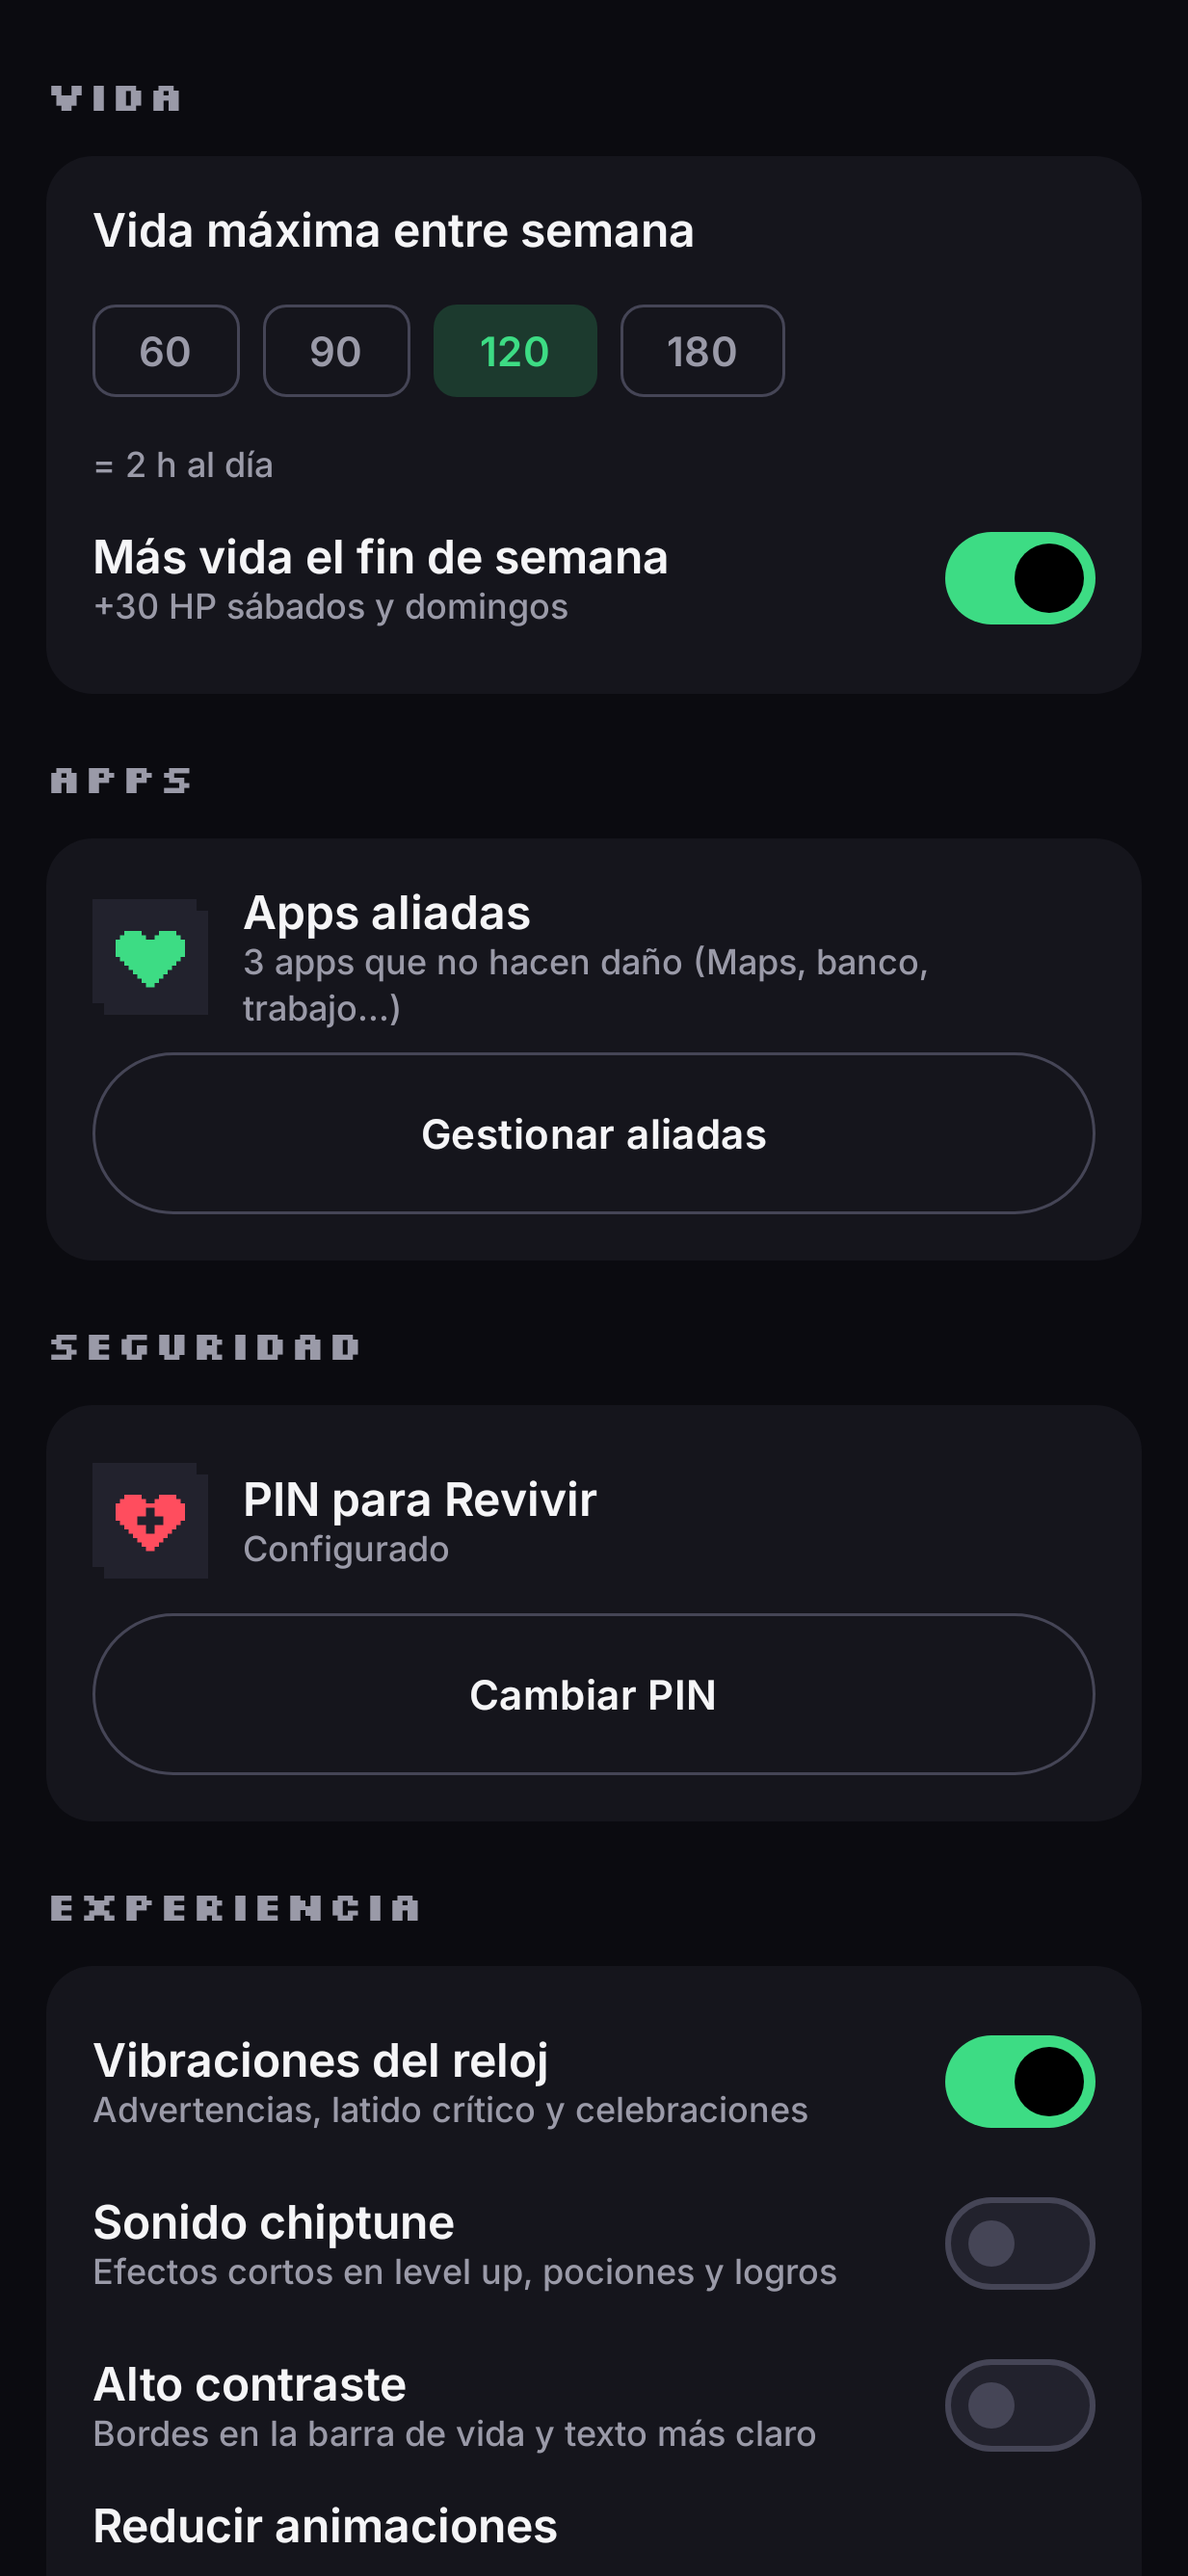
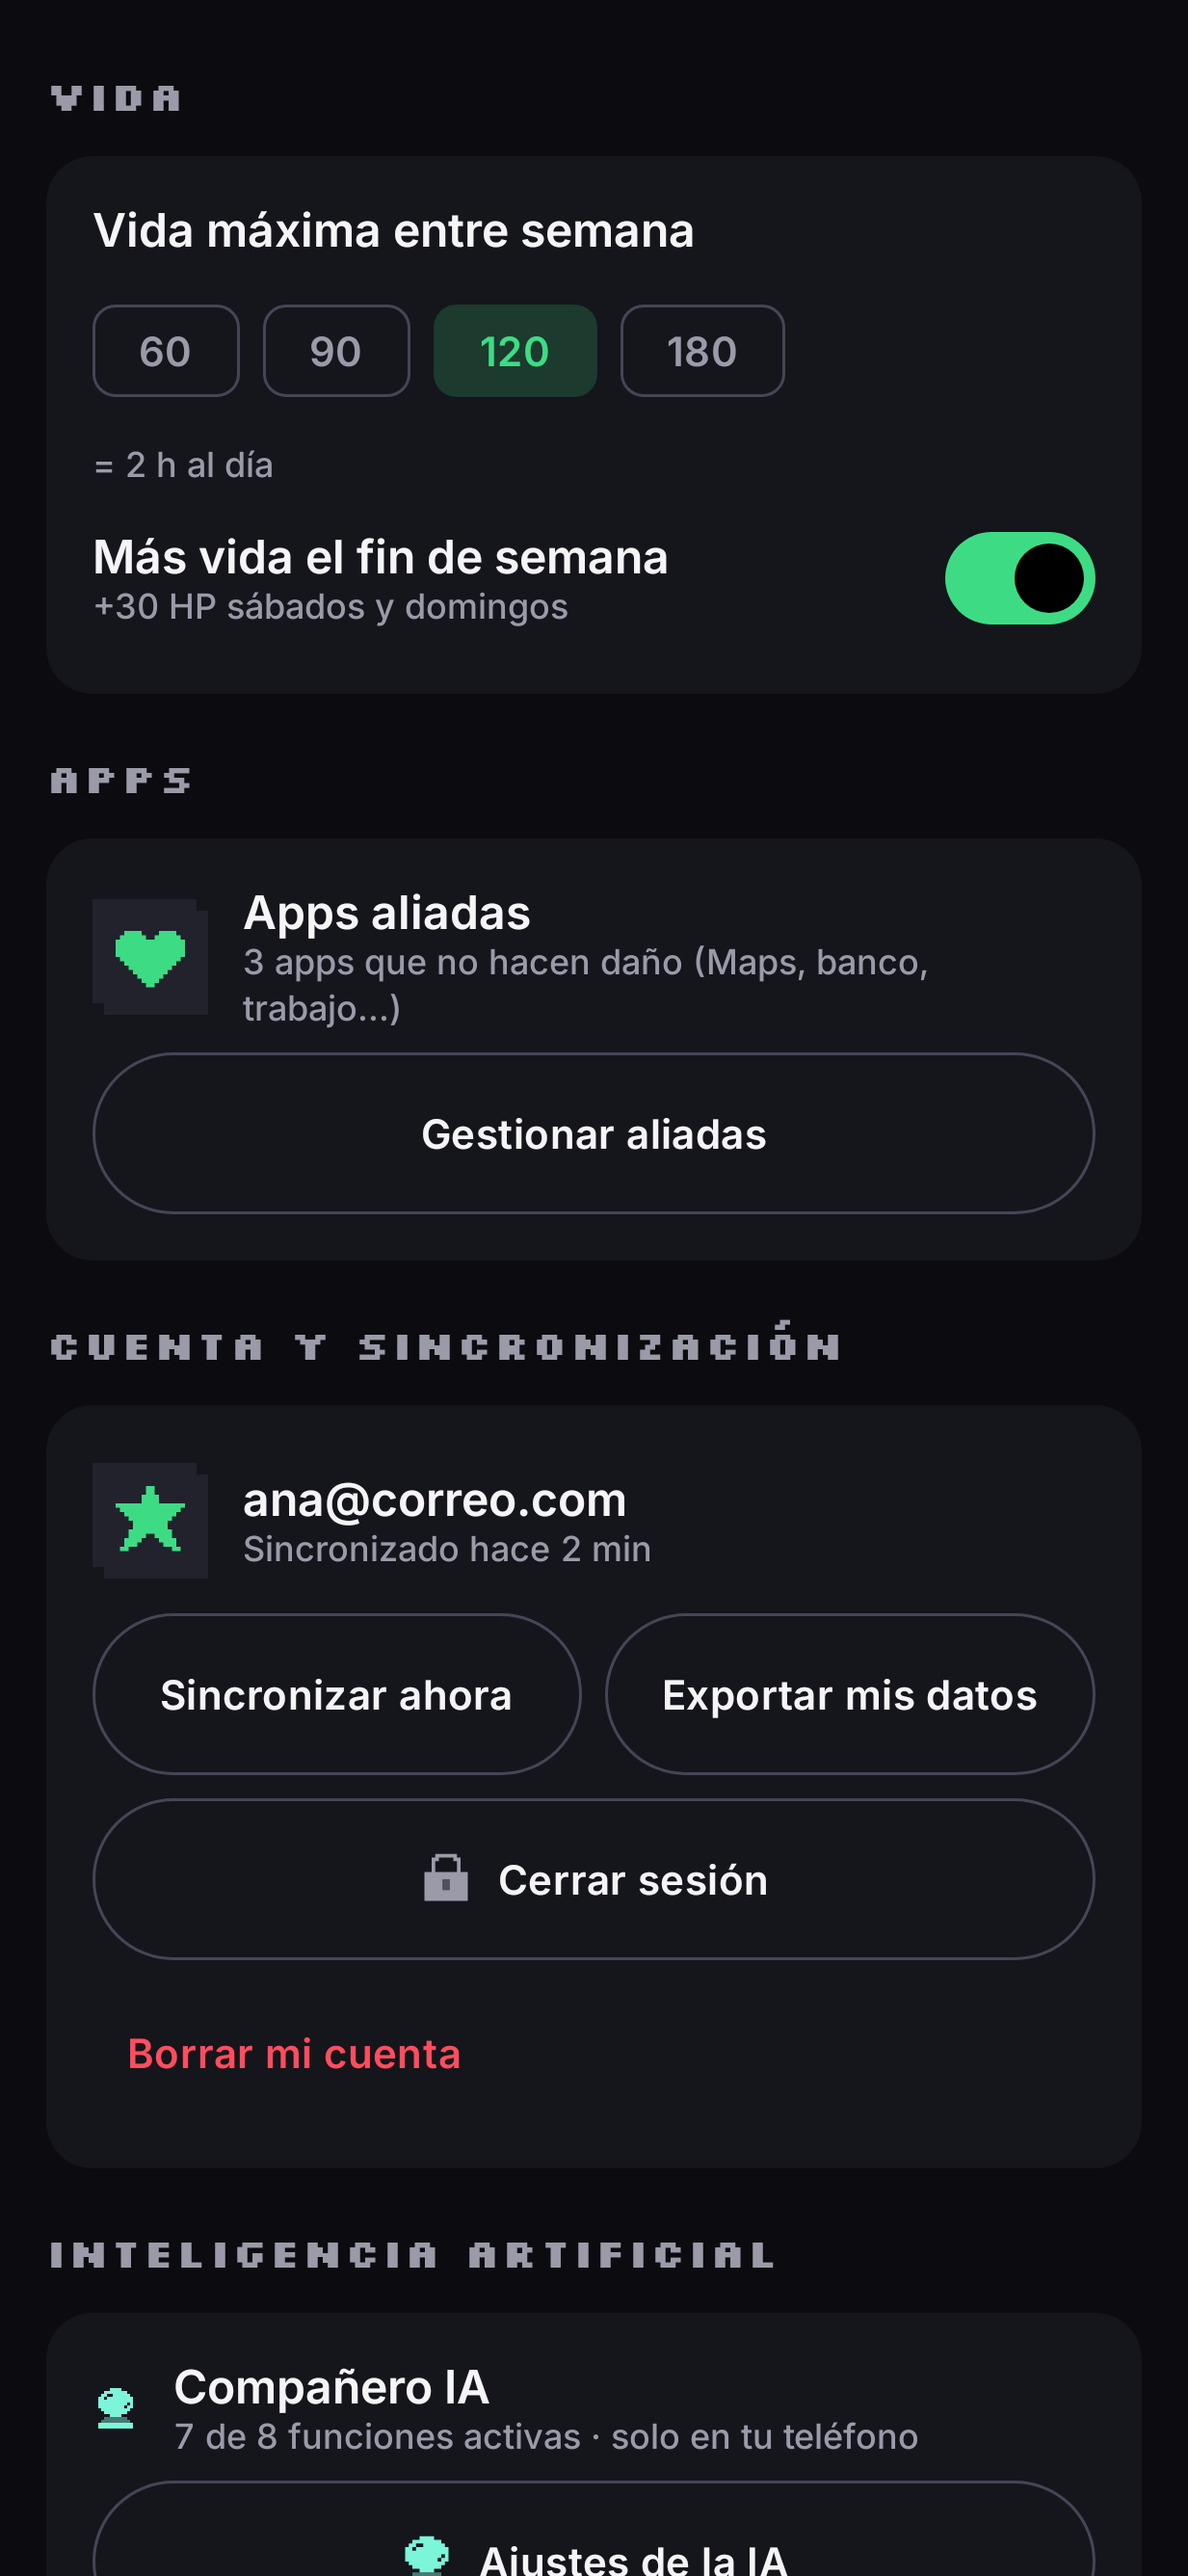
Pasada final: README actualizado, capturas regeneradas y plan cerrado

diff --git a/mobile/src/test/java/com/desconecta/hp/mobile/PhoneScreenshots.kt b/mobile/src/test/java/com/desconecta/hp/mobile/PhoneScreenshots.kt
@@ -103,7 +103,11 @@ class PhoneScreenshots {
     @Test fun historial_vacio() = shot("14_historial_vacio") { HistoryScreen(emptyList(), 0) }
     @Test fun avatar() = shot("15_avatar") { AvatarScreen(game.player, {}, {}) }
     @Test fun ajustes() = shot("16_configuracion") {
-        SettingsScreen(game, PhonePrefs(true, 120, 30, true), allGranted, { _, _ -> }, {}, {}, {}, {}, {})
+        SettingsScreen(
+            game, PhonePrefs(true, 120, 30, true), allGranted, { _, _ -> }, {}, {}, {}, {}, {},
+            cloudSection = { AccountSection(AuthState.SignedIn("u", "ana@correo.com", true), SyncStatus(lastSyncAt = now - 120_000), 0, now, {}, {}, {}, {}, {}, {}) },
+            aiSection = { com.desconecta.hp.mobile.ui.ai.AiSettingsSummary(com.desconecta.hp.shared.ai.model.AiSettings()) {} },
+        )
     }
     @Test fun catalogo() = shot("17_sistema_de_diseno") { DesignSystemCatalog() }
 

diff --git a/README.md b/README.md
@@ -2,33 +2,76 @@
 
 Control de tiempo en pantalla con estética de videojuego, para **Android + Wear OS**.
 Tu tiempo diario es una barra de vida (1 HP = 1 minuto); las apps más adictivas son monstruos
-con su propio límite; el reloj es el mando.
+con su propio límite; el reloj es el mando. Un compañero de IA da pistas, nunca decide por ti.
 
-| Reloj | Teléfono |
-|---|---|
-| <img src="docs/screenshots/wear/01_hud_saludable.png" width="220"> | <img src="docs/screenshots/phone/05_panel_principal.png" width="220"> |
-| <img src="docs/screenshots/wear/08_game_over.png" width="220"> | <img src="docs/screenshots/phone/07_bloqueo_app.png" width="220"> |
+| Reloj | Teléfono | IA |
+|---|---|---|
+| <img src="docs/screenshots/wear/01_hud_saludable.png" width="200"> | <img src="docs/screenshots/phone/05_panel_principal.png" width="200"> | <img src="docs/screenshots/phone/30_ia_sugerencia_limite.png" width="200"> |
+| <img src="docs/screenshots/wear/27_hud_ia_coach.png" width="200"> | <img src="docs/screenshots/phone/19_cuenta_consentimiento.png" width="200"> | <img src="docs/screenshots/phone/26_ia_ajustes_aprendiendo.png" width="200"> |
+
+## Qué incluye
+
+- **Juego**: vida diaria, monstruos con límite, bloqueo de apps, pociones/escudos/revivir, logros, rachas,
+  historial, avatar, jefe semanal, modo estudio. Funciona sin conexión.
+- **Reloj (Wear OS)**: HUD con la barra de vida, monstruos, inventario, alertas, Tile y complicaciones.
+  No habla con internet: todo pasa por el teléfono (Wearable Data Layer).
+- **Nube (Supabase)**: cuenta con correo o Google, sincronización con cola y reintentos, anti-trampas en
+  el servidor (XP, inventario y cierre del día los calcula la base de datos), exportar y borrar la cuenta.
+  Sin cuenta, todo se queda en el teléfono ("Solo en este dispositivo").
+- **IA (versión simple, por reglas)**: coach del avatar (300 frases, ≥ 45 min entre mensajes), límites
+  inteligentes que tú apruebas, Oráculo ("a este ritmo te quedarías sin vida a las 21:40"), aviso berserker,
+  diario de batalla y la frase del coach en el reloj. Siempre con "¿Por qué?", certeza en palabras y 👍/👎.
 
 ## Módulos
 
-- `shared/`: sistema de diseño (tokens, `HealthBar`, componentes, íconos pixel), modelos, reglas (`GameEngine`) y protocolo reloj ↔ teléfono.
-- `wear/`: app de Wear OS (Compose for Wear OS, Material 3): HUD, monstruos, inventario, alertas, Tile y complicaciones.
-- `mobile/`: app de teléfono (Compose, Material 3, Hilt, Room, DataStore, WorkManager): monitoreo, bloqueo y todas las pantallas.
+- `shared/`: sistema de diseño (tokens, `HealthBar`, componentes, íconos pixel, componentes de IA), modelos,
+  reglas del juego (`GameEngine`), reglas de IA (`ai/rules`) y protocolo reloj ↔ teléfono.
+- `wear/`: app de Wear OS (Compose for Wear OS, Material 3).
+- `mobile/`: app de teléfono (Compose, Material 3, Hilt, Room, DataStore, WorkManager, supabase-kt).
+- `supabase/`: migraciones SQL (tablas, RLS, triggers, funciones RPC, retención) y pruebas de la base.
 
 ## Documentación de diseño
 
 1. [Sistema de diseño](docs/01-sistema-de-diseno.md): color con contraste medido, tipografía, forma, movimiento, haptics.
 2. [Componente HealthBar](docs/02-health-bar.md): variantes, animaciones y su justificación.
 3. [Pantallas y flujos](docs/03-pantallas.md): decisiones por pantalla y principios de usabilidad.
-4. [Nube con Supabase](docs/04-supabase.md): respaldo y sincronización del reloj por Wi‑Fi.
+4. [Nube, primera versión](docs/04-supabase.md): *histórico*; la sincronización directa del reloj se sustituyó por la del documento 5.
+5. [Arquitectura con Supabase](docs/05-arquitectura-supabase.md): datos, seguridad, sincronización, cuentas y consentimiento.
+6. [Módulo de IA](docs/06-modulo-ia.md): arquitectura, tokens visuales y las 5 fases con su justificación.
+
+Capturas: `docs/screenshots/phone` (32) y `docs/screenshots/wear` (28).
+
+## Configurar
+
+Las credenciales van **solo** en `local.properties` (no se sube a git):
+
+```properties
+supabase.url=https://xxxx.supabase.co
+supabase.key=<anon / publishable key>          # nunca la service_role
+google.webClientId=<ID de cliente web>         # opcional: sin él no aparece "Continuar con Google"
+release.storeFile=…                            # opcional: firma de release (misma clave para teléfono y reloj)
+```
+
+Base de datos: en el SQL Editor de Supabase, pegar `supabase/deploy/hp_schema_v2.sql` y después
+`supabase/migrations/006_usage_upsert.sql`. En Authentication → URL Configuration, añadir la redirección
+`hpdesconecta://auth/**`. Sin `supabase.url` la app funciona igual, solo en el dispositivo.
 
 ## Compilar y probar
 
 ```bash
-./gradlew :shared:testDebugUnitTest            # 17 pruebas de las reglas
+./gradlew :shared:testDebugUnitTest            # 62 pruebas: reglas del juego y de la IA
 ./gradlew :wear:assembleDebug :mobile:assembleDebug
 ./gradlew :wear:recordRoborazziDebug :mobile:recordRoborazziDebug   # regenera las capturas
+./gradlew :mobile:testDebugUnitTest --tests "*RemoteGameApiIntegrationTest" -Dhp.integration=true   # contra Supabase real
 ```
 
-Ambas apps usan el mismo `applicationId` (`com.desconecta.hp`), que es un requisito de la Wearable Data Layer API.
-Instala `mobile` en el teléfono y `wear` en el reloj (o en el emulador de Wear OS emparejado).
+Ambas apps usan el mismo `applicationId` (`com.desconecta.hp`), requisito de la Wearable Data Layer API.
+Instala `mobile` en el teléfono y `wear` en el reloj. Para que se vean entre sí, el teléfono necesita la app
+**Wear OS** y estar emparejado con el reloj; sin emparejar, el reloj ofrece "Probar demo".
+
+## Limitaciones conocidas
+
+- La IA es por reglas (sin modelo en el dispositivo ni en la nube); la función de nube quedó como trabajo futuro.
+- Sin comandos de voz.
+- Probado en emuladores y con pruebas automáticas; conviene usarla varios días en un teléfono real
+  (los límites inteligentes necesitan 7 días de datos).
